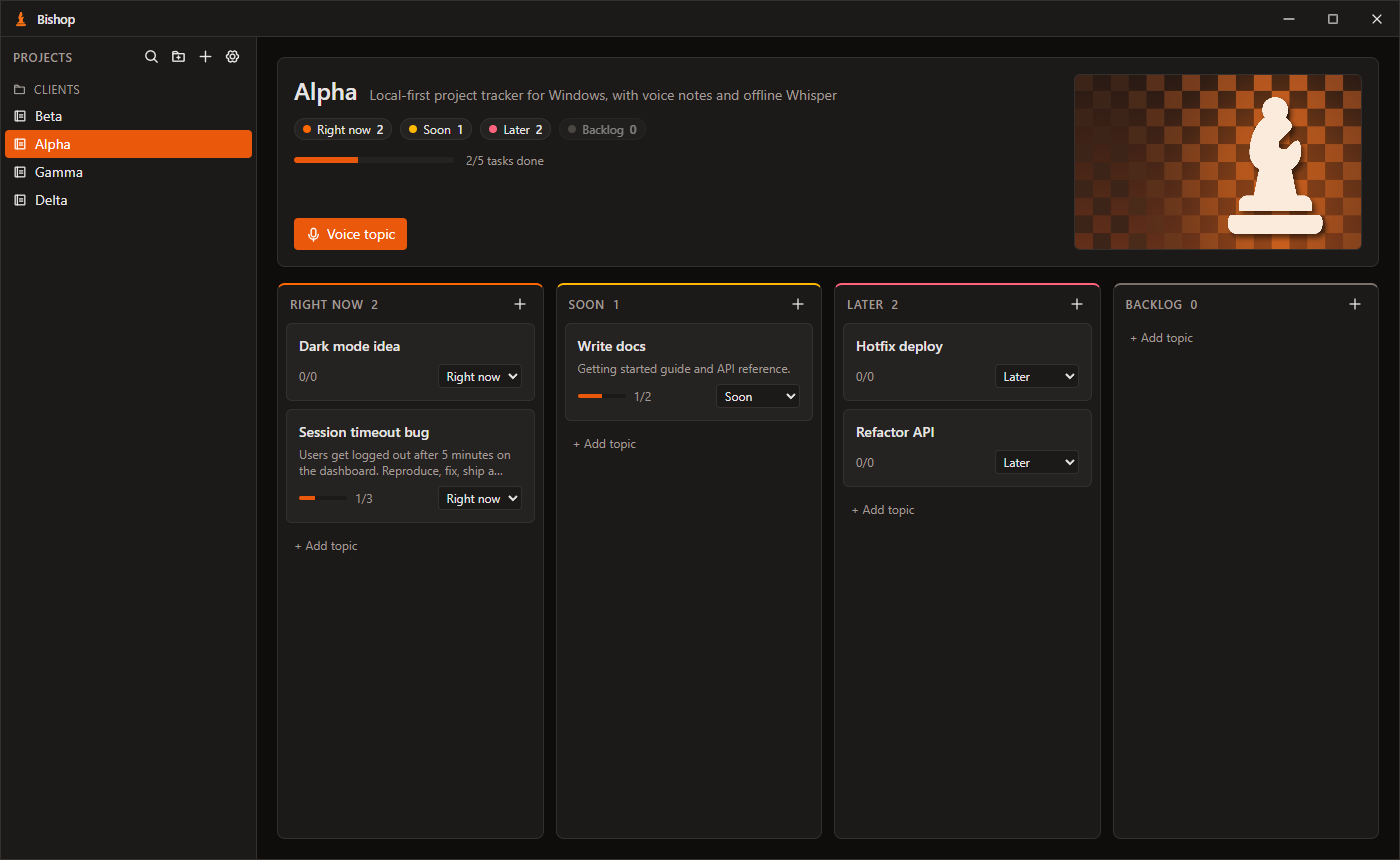
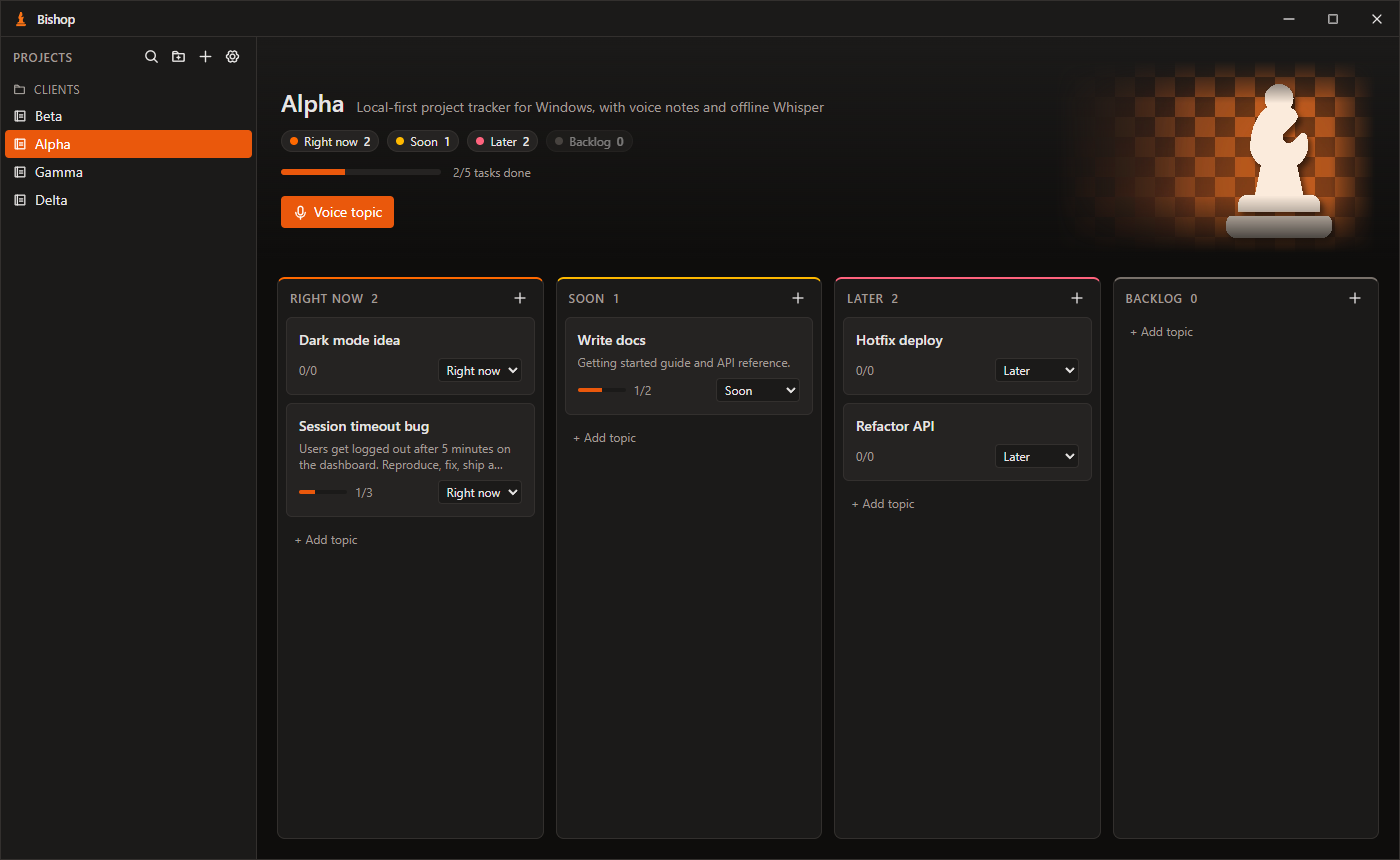
Overview: no container, fades into the page
- Remove the panel's border, card background and rounded box; a soft
  top-down wash (orange-tinted while dragging a file) fades edge to edge
  into the page, with no divider before the columns
- Picture fades out via two intersected CSS masks (strong left, soft
  top/bottom/right); controls and the upload spinner sit outside the mask
- Empty 'Add picture' stays a dashed hint on hover only
- Screenshots 08/09 refreshed

diff --git a/src/components/ProjectOverview.tsx b/src/components/ProjectOverview.tsx
@@ -351,6 +351,16 @@ function ProjectTagline({ project }: { project: Project }) {
   );
 }
 
+// The picture dissolves into the page on every side: a strong fade on the left (toward the
+// text), softer fades top, bottom and right. The two gradients are intersected.
+const pictureFadeMask: CSSProperties = (() => {
+  const image = [
+    'linear-gradient(to right, transparent 0%, #000 42%, #000 86%, transparent 100%)',
+    'linear-gradient(to bottom, transparent 0%, #000 22%, #000 70%, transparent 100%)',
+  ].join(', ');
+  return { maskImage: image, WebkitMaskImage: image, maskComposite: 'intersect', WebkitMaskComposite: 'source-in' };
+})();
+
 const overlayButton =
   'flex items-center gap-1.5 px-2.5 py-1 text-xs rounded bg-black/70 text-white border border-white/15 hover:bg-[var(--primary)] hover:border-[var(--primary)]';
 
@@ -360,10 +370,10 @@ function ProjectPicture({ project, onFile, dragOver }: { project: Project; onFil
   const input = useRef<HTMLInputElement>(null);
   const uploading = uploadingImage.includes(project.id);
   const pick = () => input.current?.click();
-  const box = 'relative w-full sm:w-72 h-44 shrink-0 rounded-md overflow-hidden';
+  const box = 'relative w-full sm:w-80 h-48 shrink-0';
   const spinner = uploading && (
-    <div className="absolute inset-0 grid place-items-center bg-black/50 text-white">
-      <Loader2 size={22} className="animate-spin" />
+    <div className="absolute inset-0 grid place-items-center text-[var(--primary-text)]">
+      <Loader2 size={24} className="animate-spin" />
     </div>
   );
 
@@ -382,9 +392,16 @@ function ProjectPicture({ project, onFile, dragOver }: { project: Project; onFil
         }}
       />
       {project.imageVersion ? (
-        <div data-testid="project-picture" className={`group/pic ${box} border border-[var(--border)] bg-[var(--card)]`}>
-          <img src={api.projectImageUrl(project.id, project.imageVersion)} alt={`${project.name} picture`} draggable={false} className="w-full h-full object-cover" />
-          <div className="absolute inset-0 flex items-end justify-end gap-2 p-2 bg-gradient-to-t from-black/60 via-transparent to-transparent opacity-0 group-hover/pic:opacity-100 focus-within:opacity-100 transition-opacity">
+        <div data-testid="project-picture" className={`group/pic ${box}`}>
+          <img
+            src={api.projectImageUrl(project.id, project.imageVersion)}
+            alt={`${project.name} picture`}
+            draggable={false}
+            className={`w-full h-full object-cover transition-opacity ${uploading ? 'opacity-40' : ''}`}
+            style={pictureFadeMask}
+          />
+          {/* Controls sit outside the mask so they stay crisp. */}
+          <div className="absolute inset-0 flex items-end justify-end gap-2 p-3 opacity-0 group-hover/pic:opacity-100 focus-within:opacity-100 transition-opacity">
             <button className={overlayButton} onClick={pick}>
               <UploadSimple size={13} /> Replace
             </button>
@@ -404,7 +421,7 @@ function ProjectPicture({ project, onFile, dragOver }: { project: Project; onFil
         <button
           data-testid="project-picture-add"
           onClick={pick}
-          className={`${box} border-2 border-dashed flex flex-col items-center justify-center gap-1.5 text-xs transition ${
+          className={`${box} rounded-md border-2 border-dashed flex flex-col items-center justify-center gap-1.5 text-xs transition ${
             dragOver || uploading
               ? 'opacity-100 border-[var(--primary)] text-[var(--foreground)] bg-[var(--primary-subtle)]'
               : 'opacity-0 group-hover/overview:opacity-100 focus-visible:opacity-100 border-[var(--border)] text-[var(--muted-foreground)] hover:border-[var(--primary)] hover:text-[var(--foreground)]'
@@ -449,9 +466,11 @@ function OverviewPanel({ project, topics, onVoice }: { project: Project; topics:
     <section
       data-testid="overview"
       aria-label="Project overview"
-      className={`group/overview flex flex-wrap-reverse gap-5 rounded-lg border bg-[var(--sidebar)] p-4 transition-colors ${
-        dragOver ? 'border-[var(--primary)]' : 'border-[var(--border)]'
-      }`}
+      // No container: a soft wash from the top fades into the page, edge to edge.
+      className="group/overview -mx-5 -mt-5 px-6 pt-6 pb-2 flex flex-wrap-reverse items-center gap-6"
+      style={{
+        backgroundImage: `linear-gradient(to bottom, ${dragOver ? 'var(--primary-subtle)' : 'var(--sidebar)'} 0%, transparent 100%)`,
+      }}
       onDragOver={(e) => {
         if (!hasFiles(e)) return;
         e.preventDefault();
